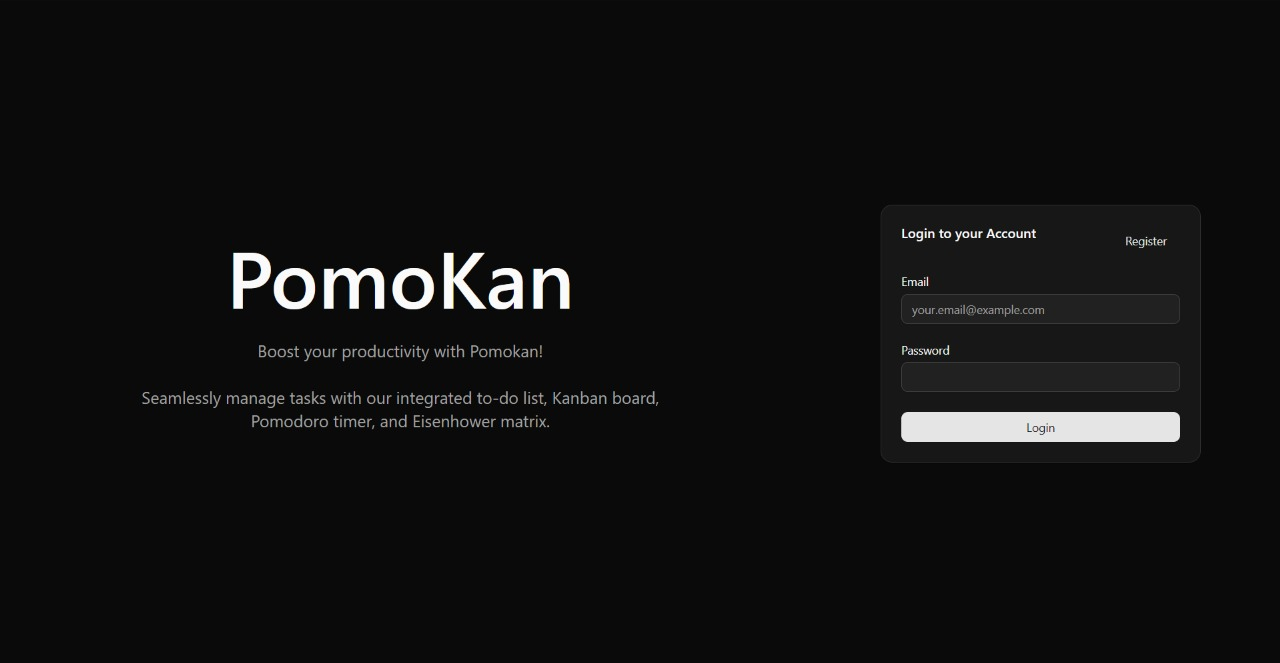
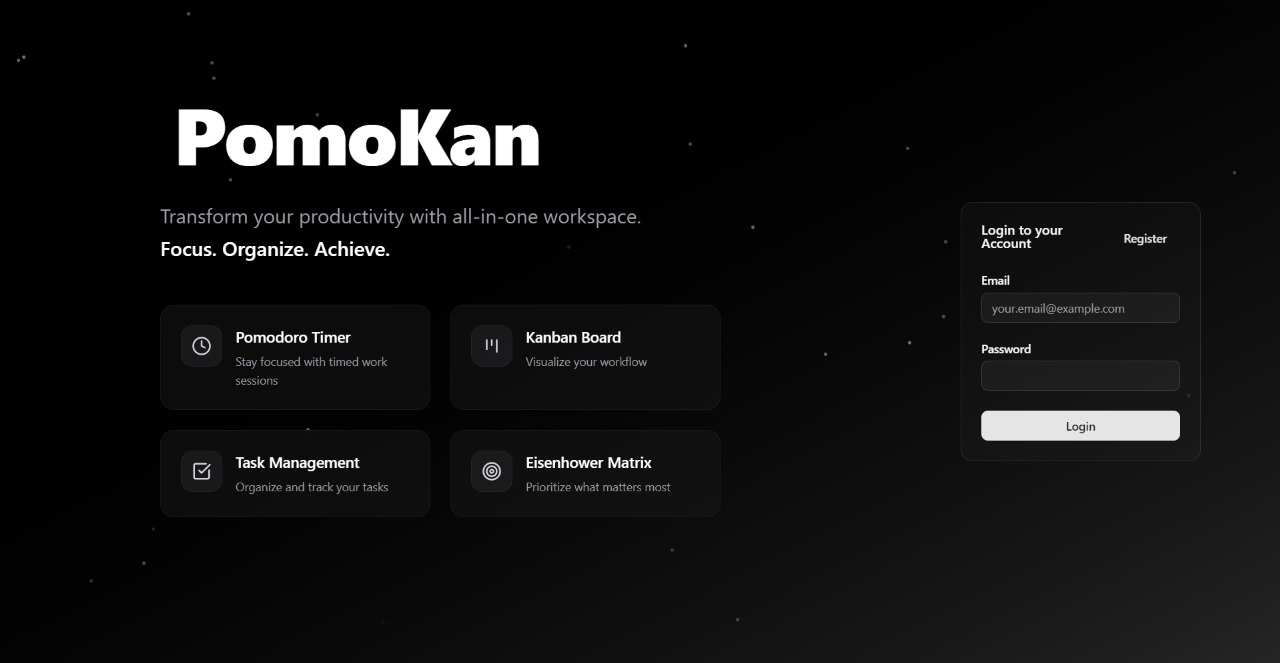
Updated skills and added deployed project links

diff --git a/src/components/Skills.jsx b/src/components/Skills.jsx
@@ -6,6 +6,7 @@ const skillCategories = [
 		skills: [
 			["react.svg", "React"],
 			["javascript.svg", "JavaScript"],
+			["TypeScript.svg", "tYPEScript"],
 			["html.svg", "HTML"],
 			["css.svg", "CSS"],
 			["tailwind.svg", "Tailwind CSS"],
@@ -13,14 +14,13 @@ const skillCategories = [
 		],
 	},
 	{
-		title: "Backend & Tools",
+		title: "Backend",
 		skills: [
 			["python.svg", "Python"],
 			["nodejs.svg", "Node.js"],
 			["flask-white.svg", "Flask"],
-			["docker.svg", "Docker"],
-			["git.svg", "Git"],
-			["github-white.svg", "GitHub"],
+			["FastAPI.svg", "FastAPI"],
+			["Express.svg", "Express"],
 		],
 	},
 	{
@@ -30,6 +30,9 @@ const skillCategories = [
 			["tensorflow.svg", "TensorFlow"],
 			["powerbi.svg", "Power BI"],
 			["sql.svg", "SQL"],
+			["SQLite.svg", "SQLite"],
+			["PostgresSQL.svg", "PostgresSQL"],
+			["Matplotlib.svg", "Matplotlib"],
 		],
 	},
 	{
@@ -37,6 +40,10 @@ const skillCategories = [
 		skills: [
 			["cpp.svg", "C++"],
 			["uipath.svg", "UiPath"],
+			["Postman.svg", "Postman"],
+			["docker.svg", "Docker"],
+			["git.svg", "Git"],
+			["github-white.svg", "GitHub"],
 			["vscode.svg", "VS Code"],
 		],
 	},
@@ -62,8 +69,9 @@ const Skills = () => {
 					<div className="w-20 h-1 bg-gradient-to-r from-blue-400 to-purple-500 mx-auto rounded-full"></div>
 				</motion.div>
 
-				{/* Skills Grid for larger screens */}
-				<div className="hidden lg:grid grid-cols-2 xl:grid-cols-4 gap-8 mb-16">
+				{/* Skills Grid */}
+				{/* <div className=" lg:grid grid-cols-2 xl:grid-cols-4 gap-8 mb-16 bg-white/20"> */}
+				<div className="grid gap-8 mx-auto md:grid-cols-2 xl:grid-cols-4 mb-16">
 					{skillCategories.map((category, categoryIndex) => (
 						<motion.div
 							key={category.title}
@@ -103,57 +111,6 @@ const Skills = () => {
 							</div>
 						</motion.div>
 					))}
-				</div>
-
-				{/* Marquee for mobile and as additional visual element */}
-				<div className="lg:hidden mb-8">
-					<div className="relative overflow-hidden">
-						<div className="flex animate-marquee-move">
-							{[...allSkills, ...allSkills].map((skill, index) => (
-								<div
-									key={`${skill[1]}-${index}`}
-									className="flex flex-col items-center mx-6 min-w-[80px]"
-								>
-									<div className="glass-effect rounded-xl p-4 mb-2">
-										<img
-											src={`./icons/${skill[0]}`}
-											alt={skill[1]}
-											className="w-8 h-8"
-										/>
-									</div>
-									<p className="text-slate-300 text-sm text-center font-medium">
-										{skill[1]}
-									</p>
-								</div>
-							))}
-						</div>
-					</div>
-				</div>
-
-				{/* Enhanced marquee for desktop as decorative element */}
-				<div className="hidden lg:block">
-					<div className="relative overflow-hidden [mask-image:_linear-gradient(to_right,transparent_0,_black_128px,_black_calc(100%-128px),transparent_100%)]">
-						<div className="flex animate-marquee-move">
-							{[...allSkills, ...allSkills].map((skill, index) => (
-								<motion.div
-									key={`marquee-${skill[1]}-${index}`}
-									className="flex flex-col items-center mx-8 min-w-[100px] group"
-									whileHover={{ scale: 1.1 }}
-								>
-									<div className="glass-effect rounded-xl p-4 mb-3 group-hover:bg-white/10 transition-all duration-300">
-										<img
-											src={`./icons/${skill[0]}`}
-											alt={skill[1]}
-											className="w-10 h-10 group-hover:animate-pulse"
-										/>
-									</div>
-									<p className="text-slate-300 text-sm text-center font-medium group-hover:text-white transition-colors duration-300">
-										{skill[1]}
-									</p>
-								</motion.div>
-							))}
-						</div>
-					</div>
 				</div>
 			</div>
 		</section>

diff --git a/src/components/ProjectCard.jsx b/src/components/ProjectCard.jsx
@@ -65,7 +65,7 @@ const ProjectCard = ({ project, index }) => {
 					transformStyle: "preserve-3d",
 					transform,
 				}}
-				className="relative w-full max-w-sm group cursor-pointer"
+				className="relative w-full max-w-sm group"
 			>
 				{/* Card Background with Glow Effect */}
 				<div className="absolute inset-0 rounded-2xl bg-gradient-to-br from-blue-500/20 to-purple-500/20 opacity-0 group-hover:opacity-100 transition-opacity duration-500 blur-xl" />
@@ -92,14 +92,20 @@ const ProjectCard = ({ project, index }) => {
 						<div className="absolute inset-0 bg-gradient-to-t from-slate-900/80 via-transparent to-transparent"></div>
 
 						{/* Floating Badge */}
-						<motion.div
-							className="absolute top-4 right-4 glass-effect rounded-full px-3 py-1"
-							style={{
-								transform: isHovered ? "translateZ(30px)" : "translateZ(10px)",
-							}}
-						>
-							<span className="text-xs font-semibold text-white">Featured</span>
-						</motion.div>
+						{project.project_url && (
+							<motion.div
+								className="absolute top-4 right-4 glass-effect rounded-full px-3 py-1"
+								style={{
+									transform: isHovered
+										? "translateZ(30px)"
+										: "translateZ(10px)",
+								}}
+							>
+								<span className="text-xs font-semibold text-white">
+									Featured
+								</span>
+							</motion.div>
+						)}
 					</div>
 
 					{/* Content Section */}
@@ -112,6 +118,16 @@ const ProjectCard = ({ project, index }) => {
 							}}
 						>
 							{project.title}
+							<br />
+							{project.project_url && (
+								<a
+									href={project.project_url}
+									target="blank"
+									className="text-neutral-400 text-xs font-normal"
+								>
+									{project.project_url}
+								</a>
+							)}
 						</motion.h3>
 
 						{/* Description */}

diff --git a/src/components/Projects.jsx b/src/components/Projects.jsx
@@ -17,6 +17,7 @@ const projects = [
 			"Framer-motion",
 		],
 		github_url: "https://github.com/parag-ingalkar/PomoKan",
+		project_url: "https://pomokan-five.vercel.app/",
 	},
 	{
 		title: "Spotify Playlist Manager",
@@ -34,6 +35,7 @@ const projects = [
 		],
 		github_url:
 			"https://github.com/parag-ingalkar/spotify-playlist-manager-app",
+		project_url: "https://spotify-playlist-manager-app.vercel.app/",
 	},
 	{
 		title: "MNIST Classification - Neural Network in Python",
@@ -60,6 +62,8 @@ const projects = [
 		skills: ["JavaScript", "React", "D3.js", "Visualization"],
 		github_url:
 			"https://github.com/parag-ingalkar/missing-migrants-visualization",
+		project_url:
+			"https://parag-ingalkar.github.io/missing-migrants-visualization/",
 	},
 	{
 		title: "Plant Shopping Web App",